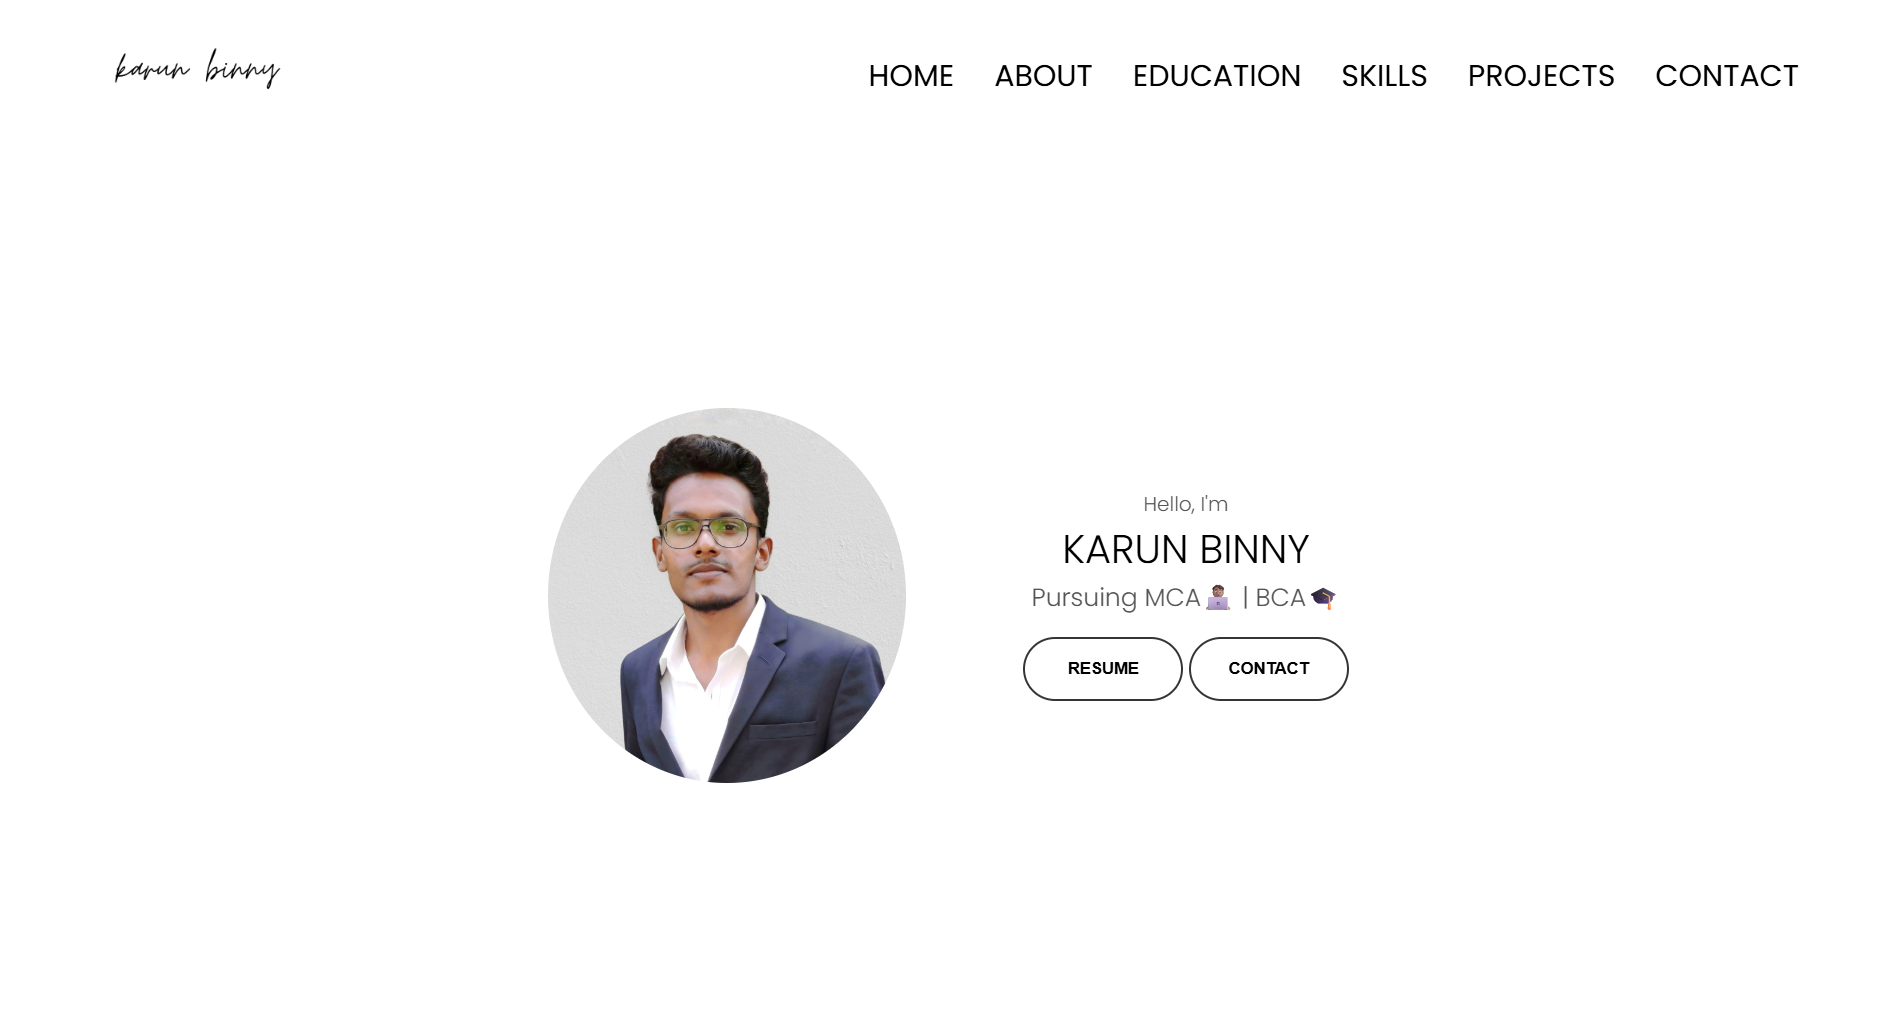
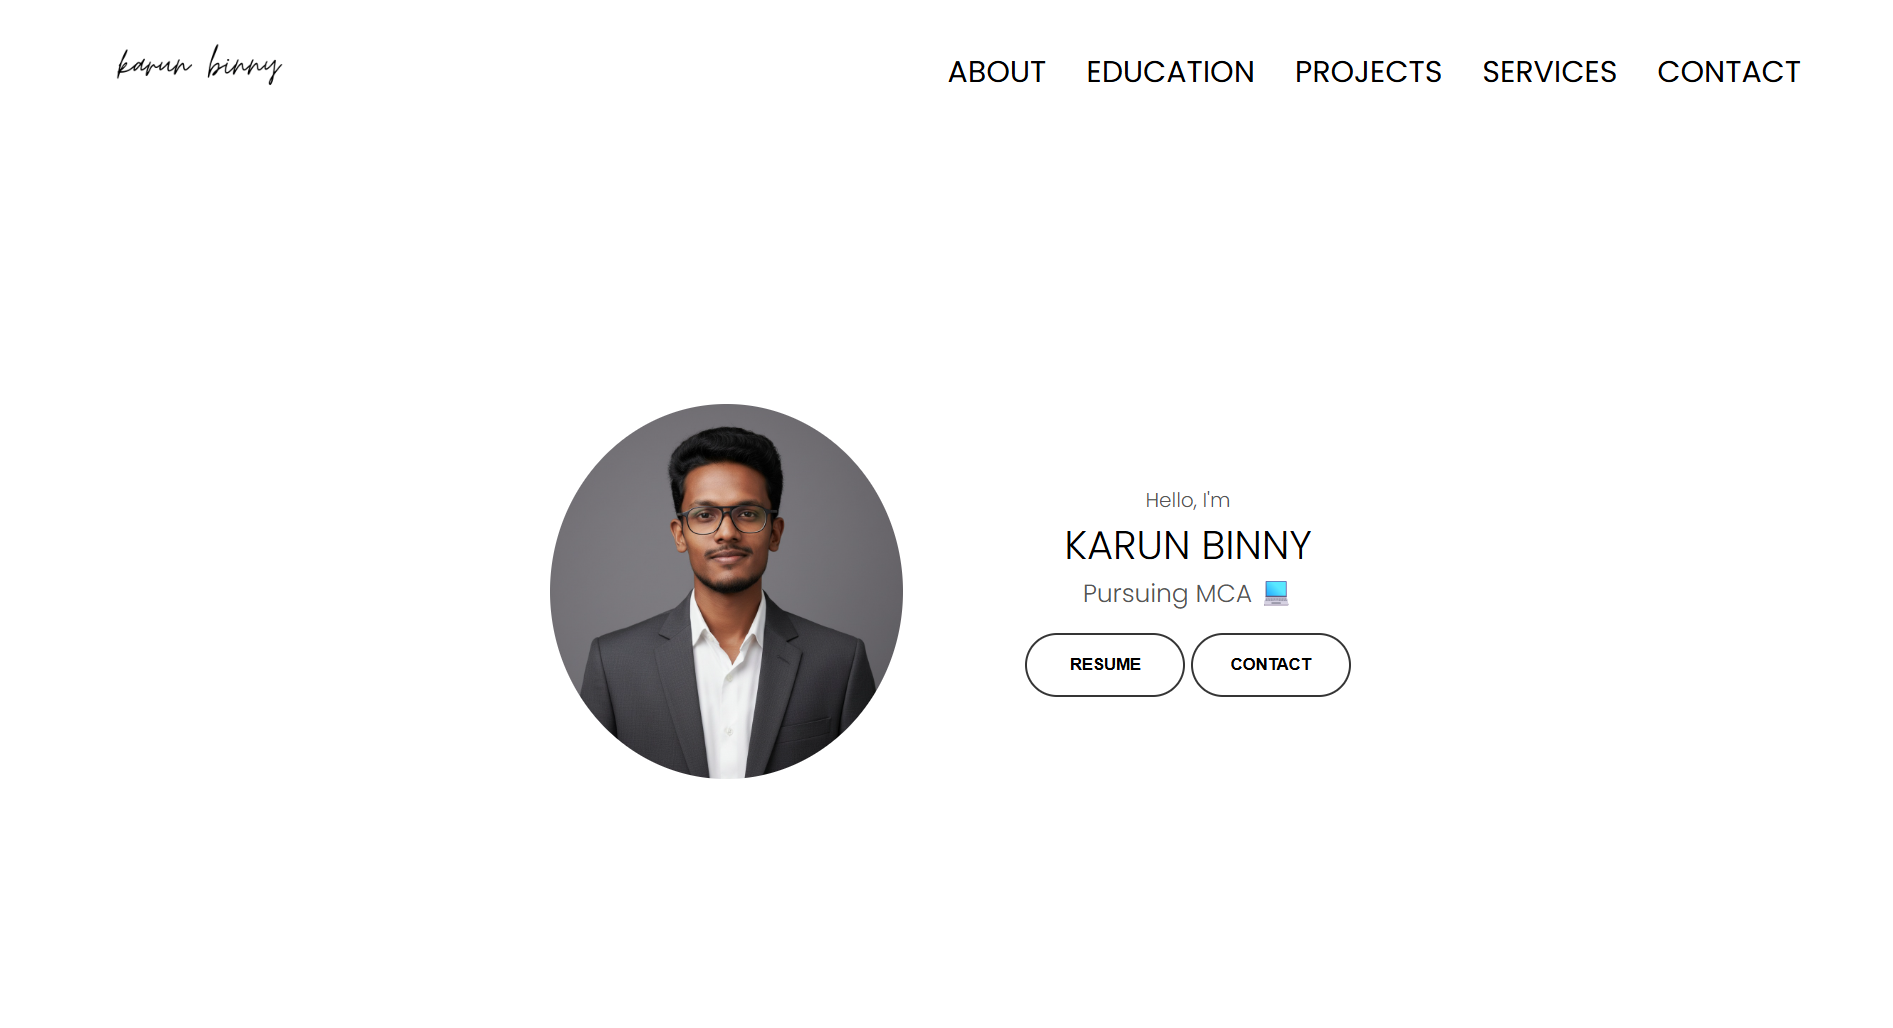
Updated index.html
Updated ogimage.png and og:title and og:description.

diff --git a/index.html b/index.html
@@ -12,14 +12,14 @@
 
     <!-- Basic SEO -->
      
-    <meta name="description" content="Discover the portfolio of Karun Binny, an MCA student and front-end developer skilled in HTML, CSS, JavaScript, and UI/UX design.">
-    <meta name="keywords" content="Karun Binny, Front-End Developer, MCA Student, Web Developer, UI/UX Designer, Portfolio, HTML, CSS, JavaScript, Python">
+    <meta name="description" content="Discover the portfolio of Karun Binny, an MCA student and Software Developer skilled in creating robust and efficient applications.">
+    <meta name="keywords" content="Karun Binny, Software Developer, MCA Student, Web Developer, Portfolio, HTML, CSS, JavaScript, Python, SQL">
     <meta name="author" content="Karun Binny" />
 
     <!-- Open Graph (for social sharing) -->
 
-    <meta property="og:title" content="Karun Binny - Front-End Developer & UI/UX Designer" />
-    <meta property="og:description" content="Explore my portfolio, projects, and skills in web development and UI/UX design." />
+    <meta property="og:title" content="Karun Binny - Software Developer" />
+    <meta property="og:description" content="Explore my portfolio, projects, and skills in software development." />
     <meta property="og:image" content="https://karunbinny-portfolio.netlify.app/images/ogimage.png" />
     <meta property="og:url" content="https://karunbinny-portfolio.netlify.app" />
     <meta property="og:type" content="website" />
